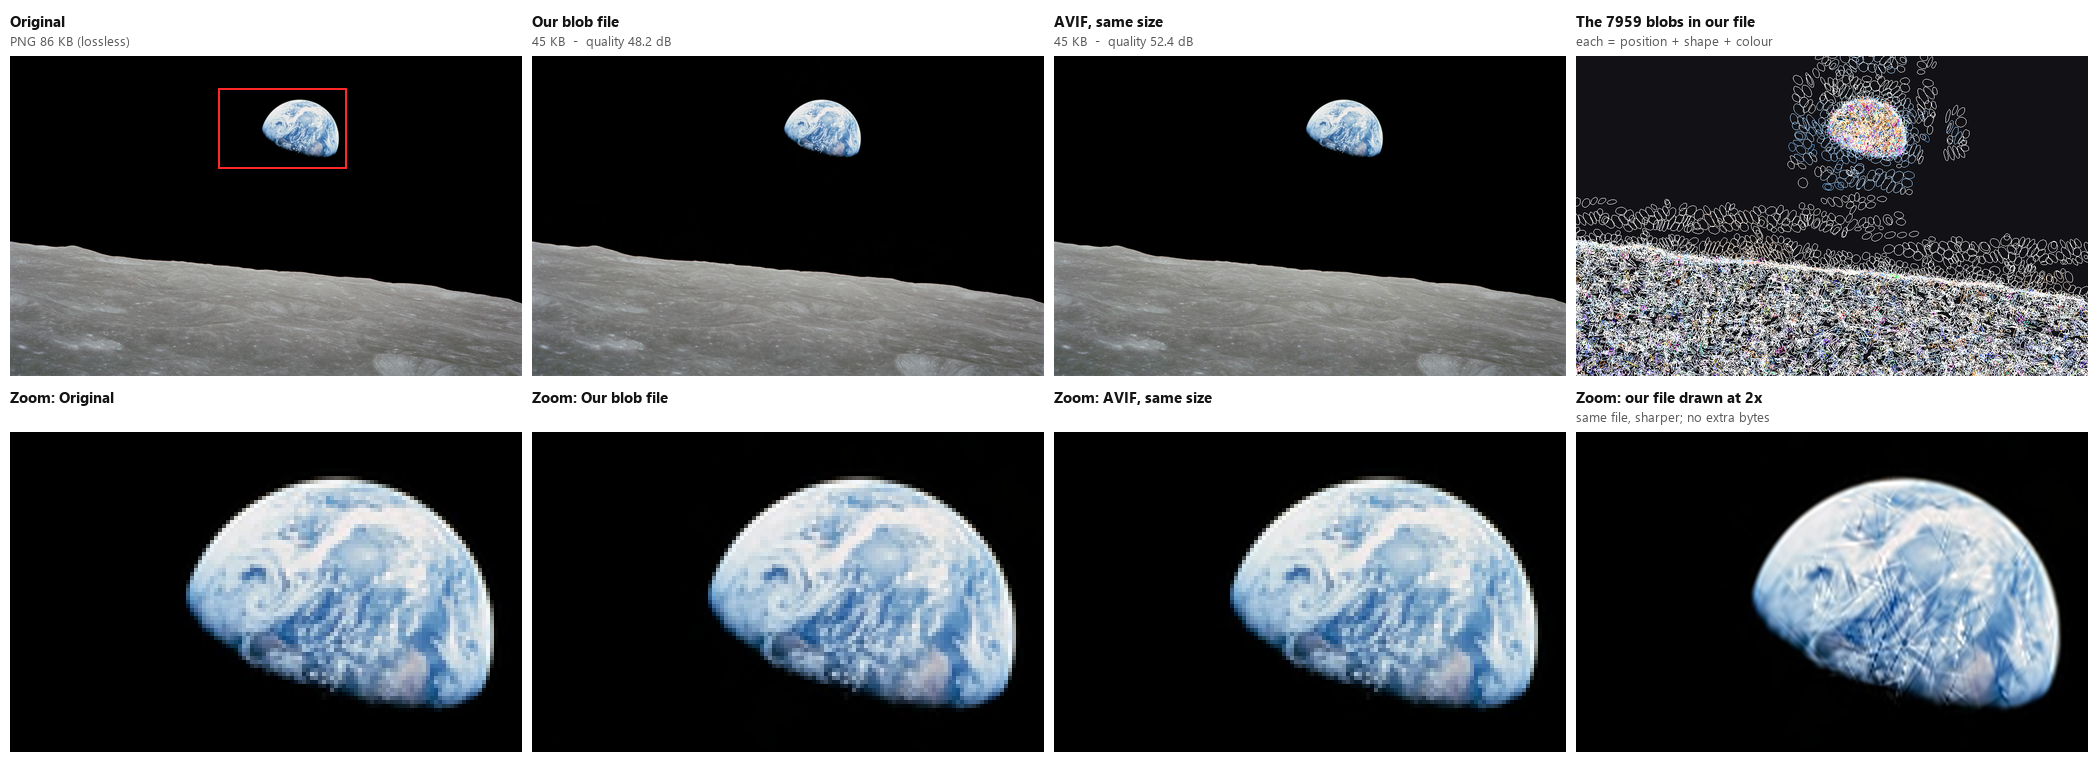
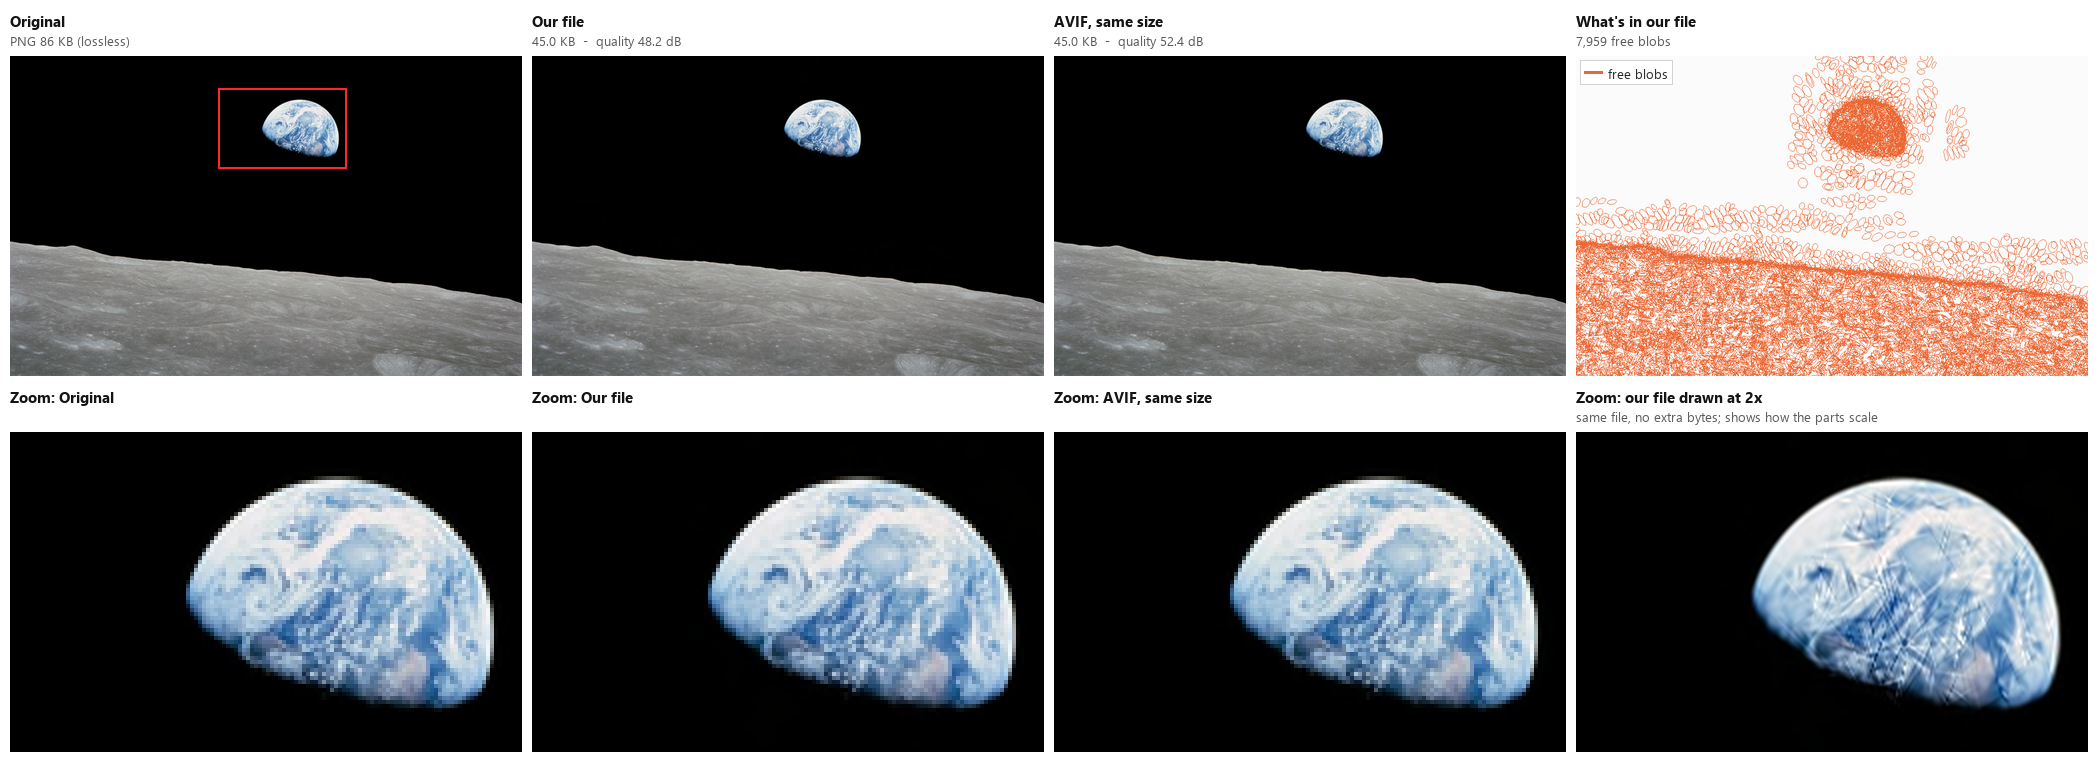
Figures: readable layer map, chosen zoom, honest captions
- "What's in our file" panel on a light background: free blobs orange,
  repeated shapes blue, boxes grey (over a faint picture of the boxes),
  with a legend in the emptiest corner. Counts show what is stored, not
  what is drawn: free blobs, shapes (their blobs) x copies, boxes.
- make_figure.py --zoom X,Y picks the zoom area (the app screen now shows
  a card edge, a swatch corner, a label and a badge, not empty sidebar).
- The 2x zoom no longer claims to be sharper; tiny blobs get scratchy
  when enlarged and the figure shows it.
- sq.decode reports the layer counts.

diff --git a/make_figure.py b/make_figure.py
@@ -1,6 +1,8 @@
-"""Explain-it picture: original | our file | AVIF same size | the blobs.
-usage: python make_figure.py NAME N LAM [SUFFIX]  (needs out/NAME_N_sq_LAM[SUFFIX].gsq from bench;
-       SUFFIX is _sym for files made with bench.py --symbols)"""
+"""Explain-it picture: original | our file | AVIF same size | what's in the file,
+then the same three zoomed in, plus our file drawn at 2x.
+usage: python make_figure.py NAME N LAM [SUFFIX] [--zoom X,Y]
+  needs out/NAME_N_sq_LAM[SUFFIX].gsq from bench (SUFFIX is _sym for bench.py --symbols);
+  --zoom X,Y puts the top-left of the 4x zoom there (default: the busiest area)."""
 import sys
 from pathlib import Path
 
@@ -10,9 +12,15 @@ from PIL import Image, ImageDraw, ImageFont
 
 from gsimg import sq
 from gsimg.codec import render_decoded
+from gsimg.rects import render_rects
 
-name, N, lam = sys.argv[1], sys.argv[2], sys.argv[3]
-suffix = sys.argv[4] if len(sys.argv) > 4 else ""
+args = [a for a in sys.argv[1:] if not a.startswith("--")]
+zoom_at = None
+if "--zoom" in sys.argv:
+    zoom_at = tuple(int(v) for v in sys.argv[sys.argv.index("--zoom") + 1].split(","))
+    args = [a for a in args if a != sys.argv[sys.argv.index("--zoom") + 1]]
+name, N, lam = args[0], args[1], args[2]
+suffix = args[3] if len(args) > 3 else ""
 OUT = Path(__file__).parent / "out"
 stem = f"{name}_{N}_sq_{lam}{suffix}"
 buf = (OUT / f"{stem}.gsq").read_bytes()
@@ -23,6 +31,7 @@ W, H = orig.size
 d = sq.decode(buf)
 font = ImageFont.truetype("C:/Windows/Fonts/segoeuib.ttf", 15)
 small = ImageFont.truetype("C:/Windows/Fonts/segoeui.ttf", 13)
+BLUE, ORANGE, GREY = (42, 120, 214), (235, 104, 52), (120, 120, 116)
 
 
 def psnr(a):
@@ -30,24 +39,28 @@ def psnr(a):
     return 10 * np.log10(1 / ((x - y) ** 2).mean())
 
 
-# blob map: every Gaussian drawn as its 1-sigma ellipse, coloured by its colour
-xy = d["xy"].cpu().numpy()
-L = d["L"].cpu().numpy()
-rgb = d["rgb"].cpu().numpy()
-blob = Image.new("RGB", (W * 2, H * 2), (18, 18, 22))
+# ---- what's in the file: boxes (grey), repeated shapes (blue), free blobs (orange)
+S = 2                                                       # drawn at 2x, then reduced
+xy, L = d["xy"].cpu().numpy(), d["L"].cpu().numpy()
+nf = d.get("n_free", len(xy))
+has_boxes = d.get("boxes") is not None
+if has_boxes:   # faint picture of the boxes alone, so the layout reads
+    bimg = render_rects(d["boxes"], d["brgb"], H, W) + torch.nn.functional.interpolate(
+        d["base"], size=(H, W), mode="bicubic", align_corners=False)[0].permute(1, 2, 0)
+    under = (bimg.clamp(0, 1) * 255).byte().cpu().numpy()
+else:
+    under = np.full((H, W, 3), 255, np.uint8)
+under = (0.35 * under + 0.65 * 250).astype(np.uint8)        # washed out
+blob = Image.fromarray(under).resize((W * S, H * S), Image.NEAREST)
 bd = ImageDraw.Draw(blob)
-t = np.linspace(0, 2 * np.pi, 20)
-circ = np.stack([np.cos(t), np.sin(t)])
-for (x, y), (a, b, c), col in zip(xy, L, rgb):
-    pts = np.array([[a, 0], [b, c]]) @ circ          # 1-sigma ellipse
-    pts = (pts + np.array([[x], [y]])) * 2
-    cc = tuple(int(v) for v in np.clip(np.abs(col) / max(np.abs(col).max(), 1e-3) * 255, 40, 255))
-    bd.line(list(map(tuple, pts.T)) + [tuple(pts[:, 0])], fill=cc, width=1)
-n_boxes = 0
-if d.get("boxes") is not None:     # box layer: outlines in white
+if has_boxes:
     for x0, y0, x1, y1 in d["boxes"].cpu().numpy().tolist():
-        bd.rectangle((x0 * 2, y0 * 2, x1 * 2 - 1, y1 * 2 - 1), outline=(235, 235, 235), width=1)
-    n_boxes = len(d["boxes"])
+        bd.rectangle((x0 * S, y0 * S, x1 * S - 1, y1 * S - 1), outline=GREY, width=1)
+t = np.linspace(0, 2 * np.pi, 24)
+circ = np.stack([np.cos(t), np.sin(t)])
+for i, ((x, y), (a, b, c)) in enumerate(zip(xy, L)):
+    pts = (np.array([[a, 0], [b, c]]) @ circ + np.array([[x], [y]])) * S   # 1-sigma ellipse
+    bd.line(list(map(tuple, pts.T)) + [tuple(pts[:, 0])], fill=ORANGE if i < nf else BLUE, width=1)
 blob = blob.resize((W, H), Image.LANCZOS)
 
 # 2x render from the same file
@@ -56,23 +69,38 @@ x2 = Image.fromarray((x2.clamp(0, 1) * 255 + 0.5).byte().cpu().numpy())
 
 kb = len(buf) / 1024
 png_kb = (OUT / f"{name}_orig.png").stat().st_size / 1024
+parts = [f"{nf:,} free blobs"]
+if d.get("n_protos"):
+    parts.append(f"{d['n_protos']} shapes ({d['n_proto_blobs']:,} blobs) drawn {d['n_copies']} times")
+if has_boxes:
+    parts.append(f"{len(d['boxes'])} boxes")
+keys = [("free blobs", ORANGE)] + ([("repeated shapes", BLUE)] if d.get("n_protos") else []) +        ([("boxes", GREY)] if has_boxes else [])
+ld = ImageDraw.Draw(blob)
+lw, lh = 28 + max(ld.textlength(k, font=small) for k, _ in keys), 18 * len(keys)
+ink = np.abs(np.asarray(orig, np.float32) - np.median(np.asarray(orig, np.float32), (0, 1))).sum(2)
+corners = [(8, 8), (W - lw - 8, 8), (8, H - lh - 8), (W - lw - 8, H - lh - 8)]
+lx, ly = min(corners, key=lambda c: ink[int(c[1]):int(c[1] + lh), int(c[0]):int(c[0] + lw)].sum())   # emptiest corner
+ld.rectangle((lx - 4, ly - 4, lx + lw, ly + lh + 2), fill=(255, 255, 255), outline=(210, 210, 206))
+for j, (k, col) in enumerate(keys):
+    ld.line((lx, ly + 18 * j + 8, lx + 18, ly + 18 * j + 8), fill=col, width=3)
+    ld.text((lx + 24, ly + 18 * j), k, font=small, fill=(40, 40, 40))
 tiles = [
     (orig, "Original", f"PNG {png_kb:.0f} KB (lossless)"),
-    (ours, "Our blob file", f"{kb:.0f} KB  -  quality {psnr(ours):.1f} dB"),
-    (avif, "AVIF, same size", f"{kb:.0f} KB  -  quality {psnr(avif):.1f} dB"),
-    (blob, f"The {len(xy)} blobs" + (f" + {n_boxes} boxes" if n_boxes else "") + " in our file",
-     "repeated letters are ONE stored shape drawn many times" if suffix else "each = position + shape + colour"),
+    (ours, "Our file", f"{kb:.1f} KB  -  quality {psnr(ours):.1f} dB"),
+    (avif, "AVIF, same size", f"{kb:.1f} KB  -  quality {psnr(avif):.1f} dB"),
+    (blob, "What's in our file", ", ".join(parts)),
 ]
-# zoom crops (3x) of the most detailed area
-g = np.asarray(orig.convert("L"), np.float32)
-e = np.abs(np.diff(g, axis=0))[:, :-1] + np.abs(np.diff(g, axis=1))[:-1]
+# 4x zoom of the chosen (or busiest) area
 cw, ch = W // 4, H // 4
-best = max(((x, y) for x in range(0, W - cw, 16) for y in range(0, H - ch, 16)),
-           key=lambda p: e[p[1]:p[1] + ch, p[0]:p[0] + cw].sum())
-box = (best[0], best[1], best[0] + cw, best[1] + ch)
+if zoom_at is None:
+    g = np.asarray(orig.convert("L"), np.float32)
+    e = np.abs(np.diff(g, axis=0))[:, :-1] + np.abs(np.diff(g, axis=1))[:-1]
+    zoom_at = max(((x, y) for x in range(0, W - cw, 16) for y in range(0, H - ch, 16)),
+                  key=lambda p: e[p[1]:p[1] + ch, p[0]:p[0] + cw].sum())
+box = (zoom_at[0], zoom_at[1], zoom_at[0] + cw, zoom_at[1] + ch)
 zoom = [(im.crop(box).resize((W, H), Image.NEAREST), "Zoom: " + lab, "") for im, lab, _ in tiles[:3]]
 zx2 = x2.crop(tuple(v * 2 for v in box)).resize((W, H), Image.LANCZOS)
-zoom.append((zx2, "Zoom: our file drawn at 2x", "same file, sharper; no extra bytes"))
+zoom.append((zx2, "Zoom: our file drawn at 2x", "same file, no extra bytes; shows how the parts scale"))
 
 pad, top = 10, 46
 fig = Image.new("RGB", (4 * W + 5 * pad, 2 * (H + top) + 3 * pad), "white")
@@ -80,6 +108,8 @@ fd = ImageDraw.Draw(fig)
 for r, row in enumerate((tiles, zoom)):
     for c, (im, title, sub) in enumerate(row):
         x, y = pad + c * (W + pad), pad + r * (H + top + pad)
+        while fd.textlength(title, font=font) > W and " " in title:      # keep titles in their column
+            title = title.rsplit(" ", 1)[0]
         fd.text((x, y), title, font=font, fill=(20, 20, 20))
         fd.text((x, y + 21), sub, font=small, fill=(90, 90, 90))
         fig.paste(im, (x, y + top))

diff --git a/gsimg/sq.py b/gsimg/sq.py
@@ -401,7 +401,7 @@ def decode(buf, device="cuda"):
         if fl & 2:
             aref, G = struct.unpack("<fB", buf[o:o + 5])
             o += 5
-    P = C = 0
+    P = C = npb = 0
     if symb:
         P, C, copy_e = struct.unpack("<HIB", buf[o:o + 7])
         o += 7
@@ -476,4 +476,5 @@ def decode(buf, device="cuda"):
     base = t(base.reshape(1, 3, bh, bw).astype(np.float32) / BASE_SCALE[mg] - 0.5)
     kb = v[:, 6].exp().clamp(KMIN, KMAX) if beta else None
     return dict(xy=t(xy), L=feat_to_L(v[:, :3]), rgb=ycc2rgb(v[:, 3:6]), base=base, H=H, W=W, R=R, cut=cut, k=kb,
-                boxes=boxes, brgb=brgb)
+                boxes=boxes, brgb=brgb,
+                n_free=N, n_protos=P, n_proto_blobs=npb, n_copies=C)   # free blobs come first in xy
